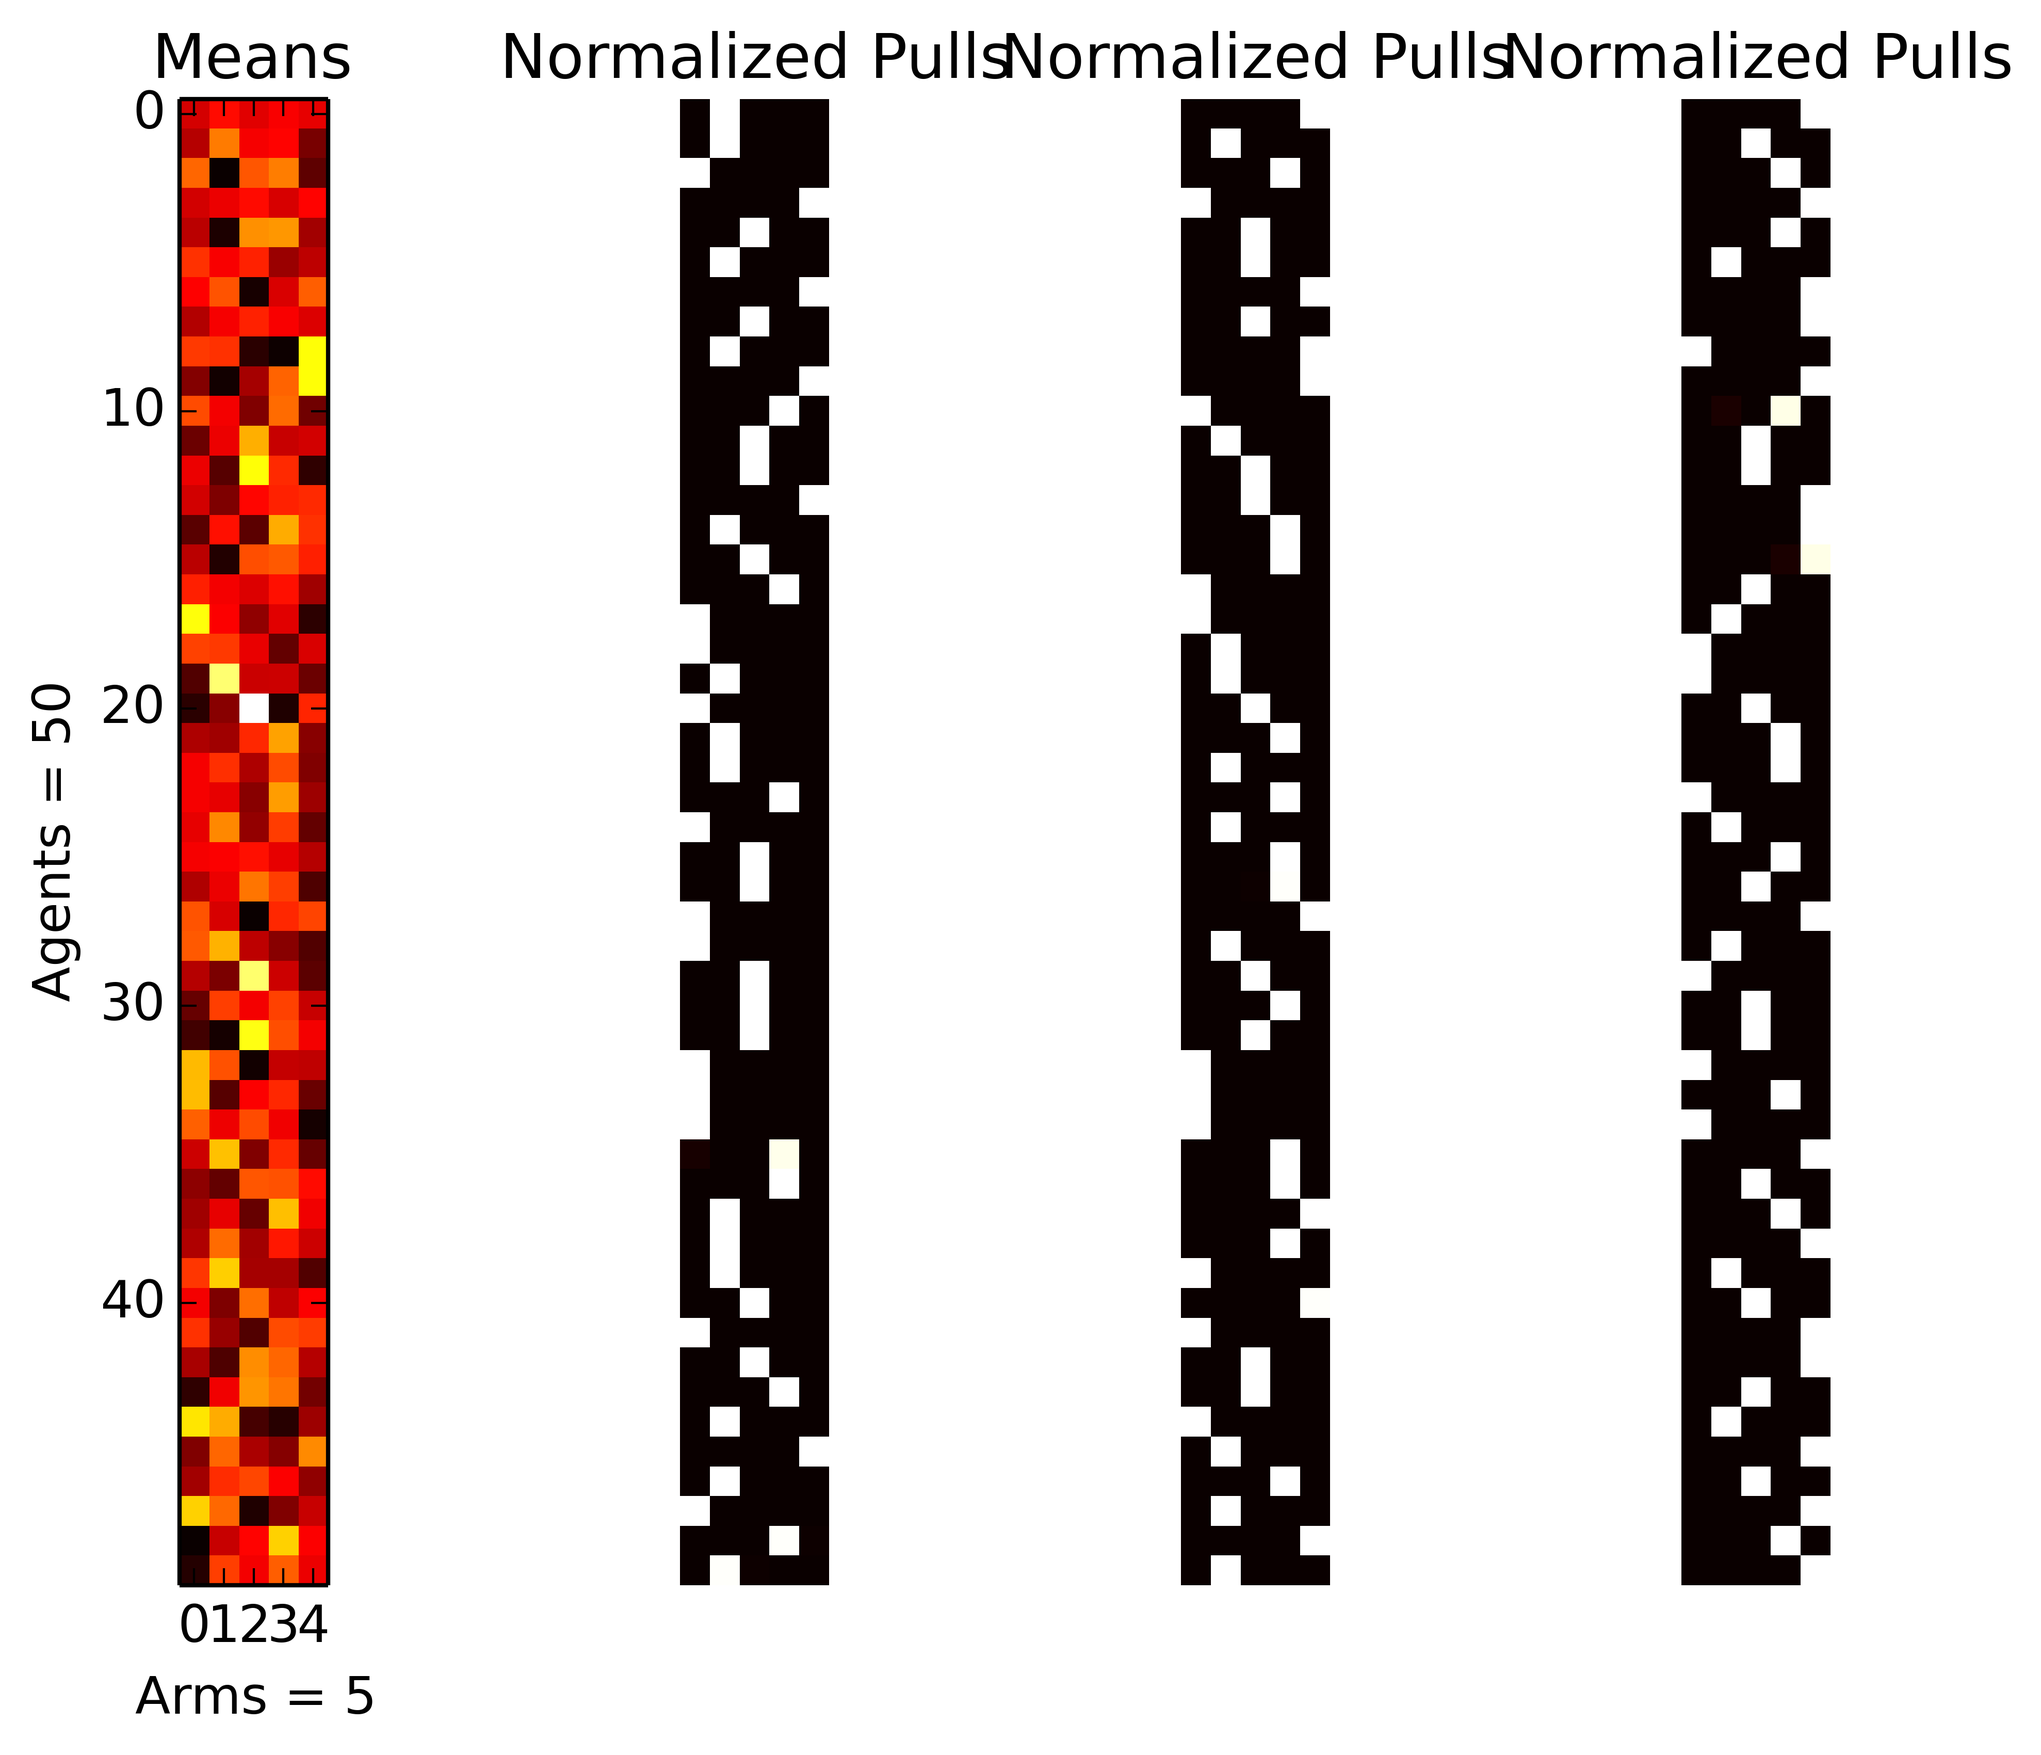
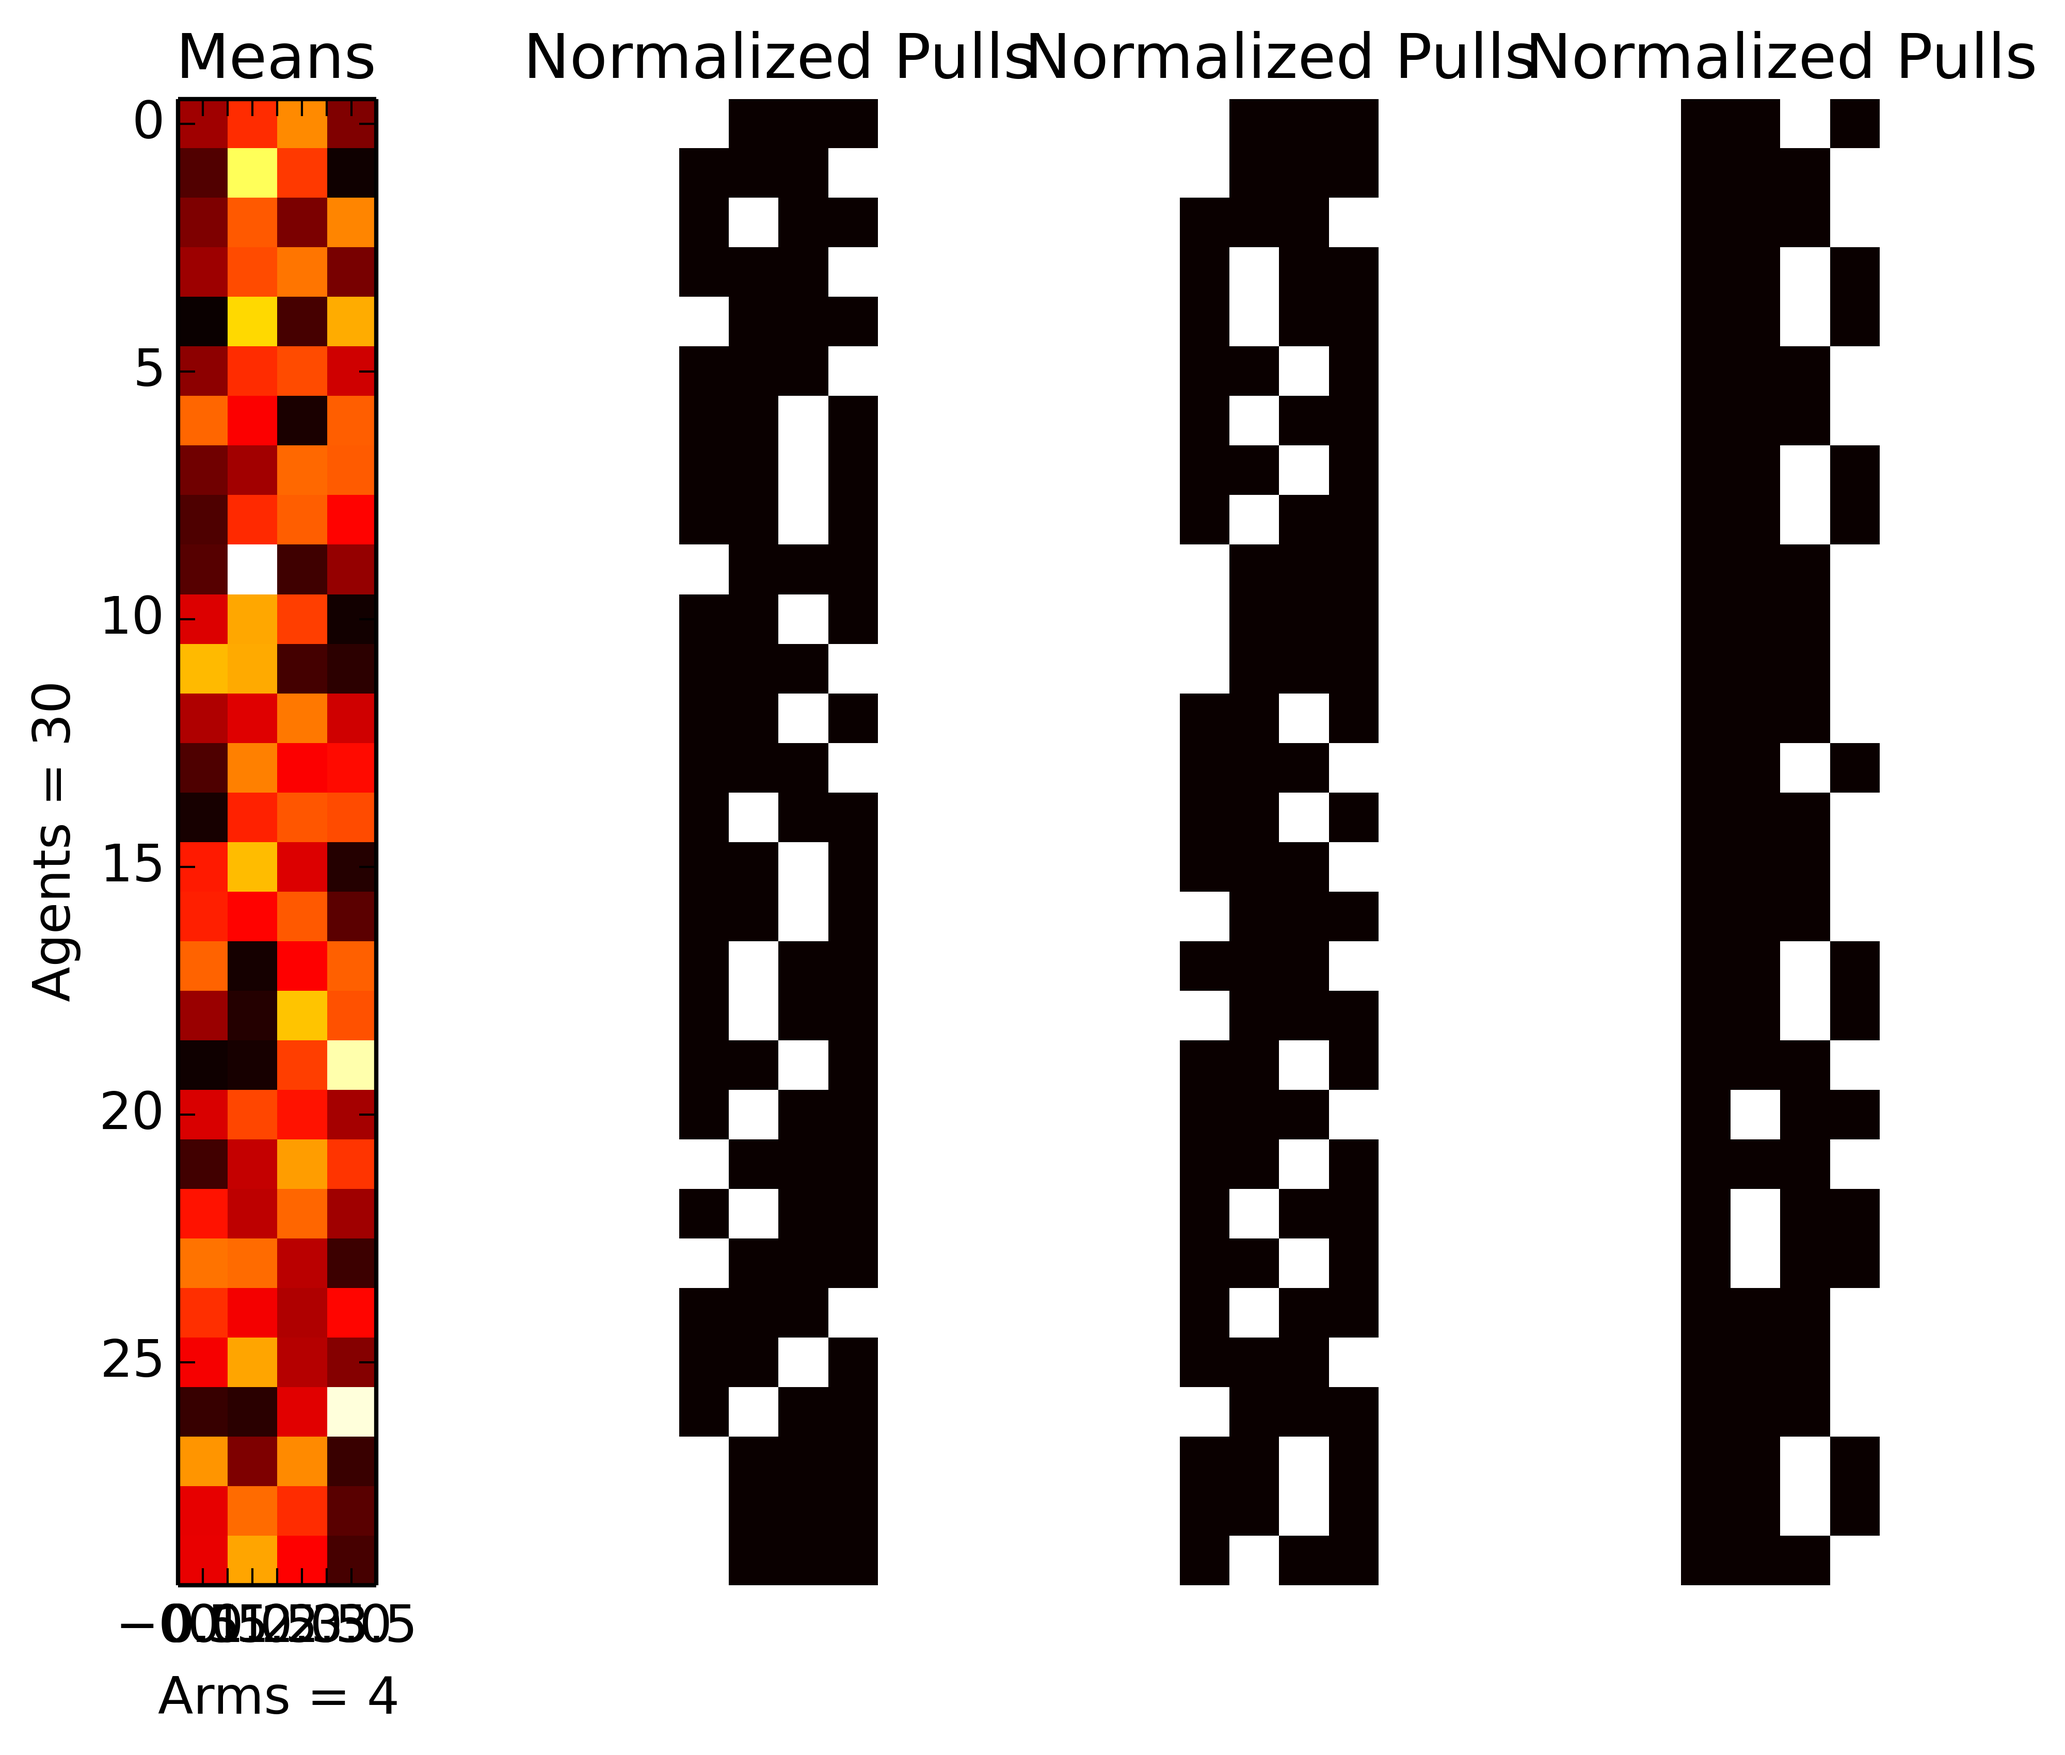
fixing frame buffer

Changed region(s): [[0.2487, 0.0, 0.9328, 0.9039], [0.0311, 0.0, 0.2176, 0.9974], [0.1244, 0.9662, 0.1555, 0.9974]]

diff --git a/network_bandits/main.py b/network_bandits/main.py
@@ -1,6 +1,3 @@
-import numpy as np
-import networkx as nx
-from multiprocessing import Pool
 import matplotlib
 matplotlib.use('Agg')
 import matplotlib.pyplot as plt
@@ -72,14 +69,14 @@ def drawPullMap(output_file, bandits):
 
 if __name__ == '__main__':
 
-    num_agents = 100
-    num_arms = 20
-    num_iters = 2000
+    num_agents = 30
+    num_arms = 4
+    num_iters = 100000
     graphs = [
         bandit.generateRandomGraph(num_agents, p=1) for _ in range(num_arms)]
     num_edges = sum(len(list(g.edges)) for g in graphs)
     G1 = bandit.NetworkBandit(
-        num_agents, num_arms, graphs, eps=0.5, mu_min=0, mu_max=1, sigma=10)
+        num_agents, num_arms, graphs, eps=0.1, mu_min=0, mu_max=1, sigma=1000)
     G2 = copy.deepcopy(G1)
     G3 = copy.deepcopy(G1)
     G4 = copy.deepcopy(G1)
